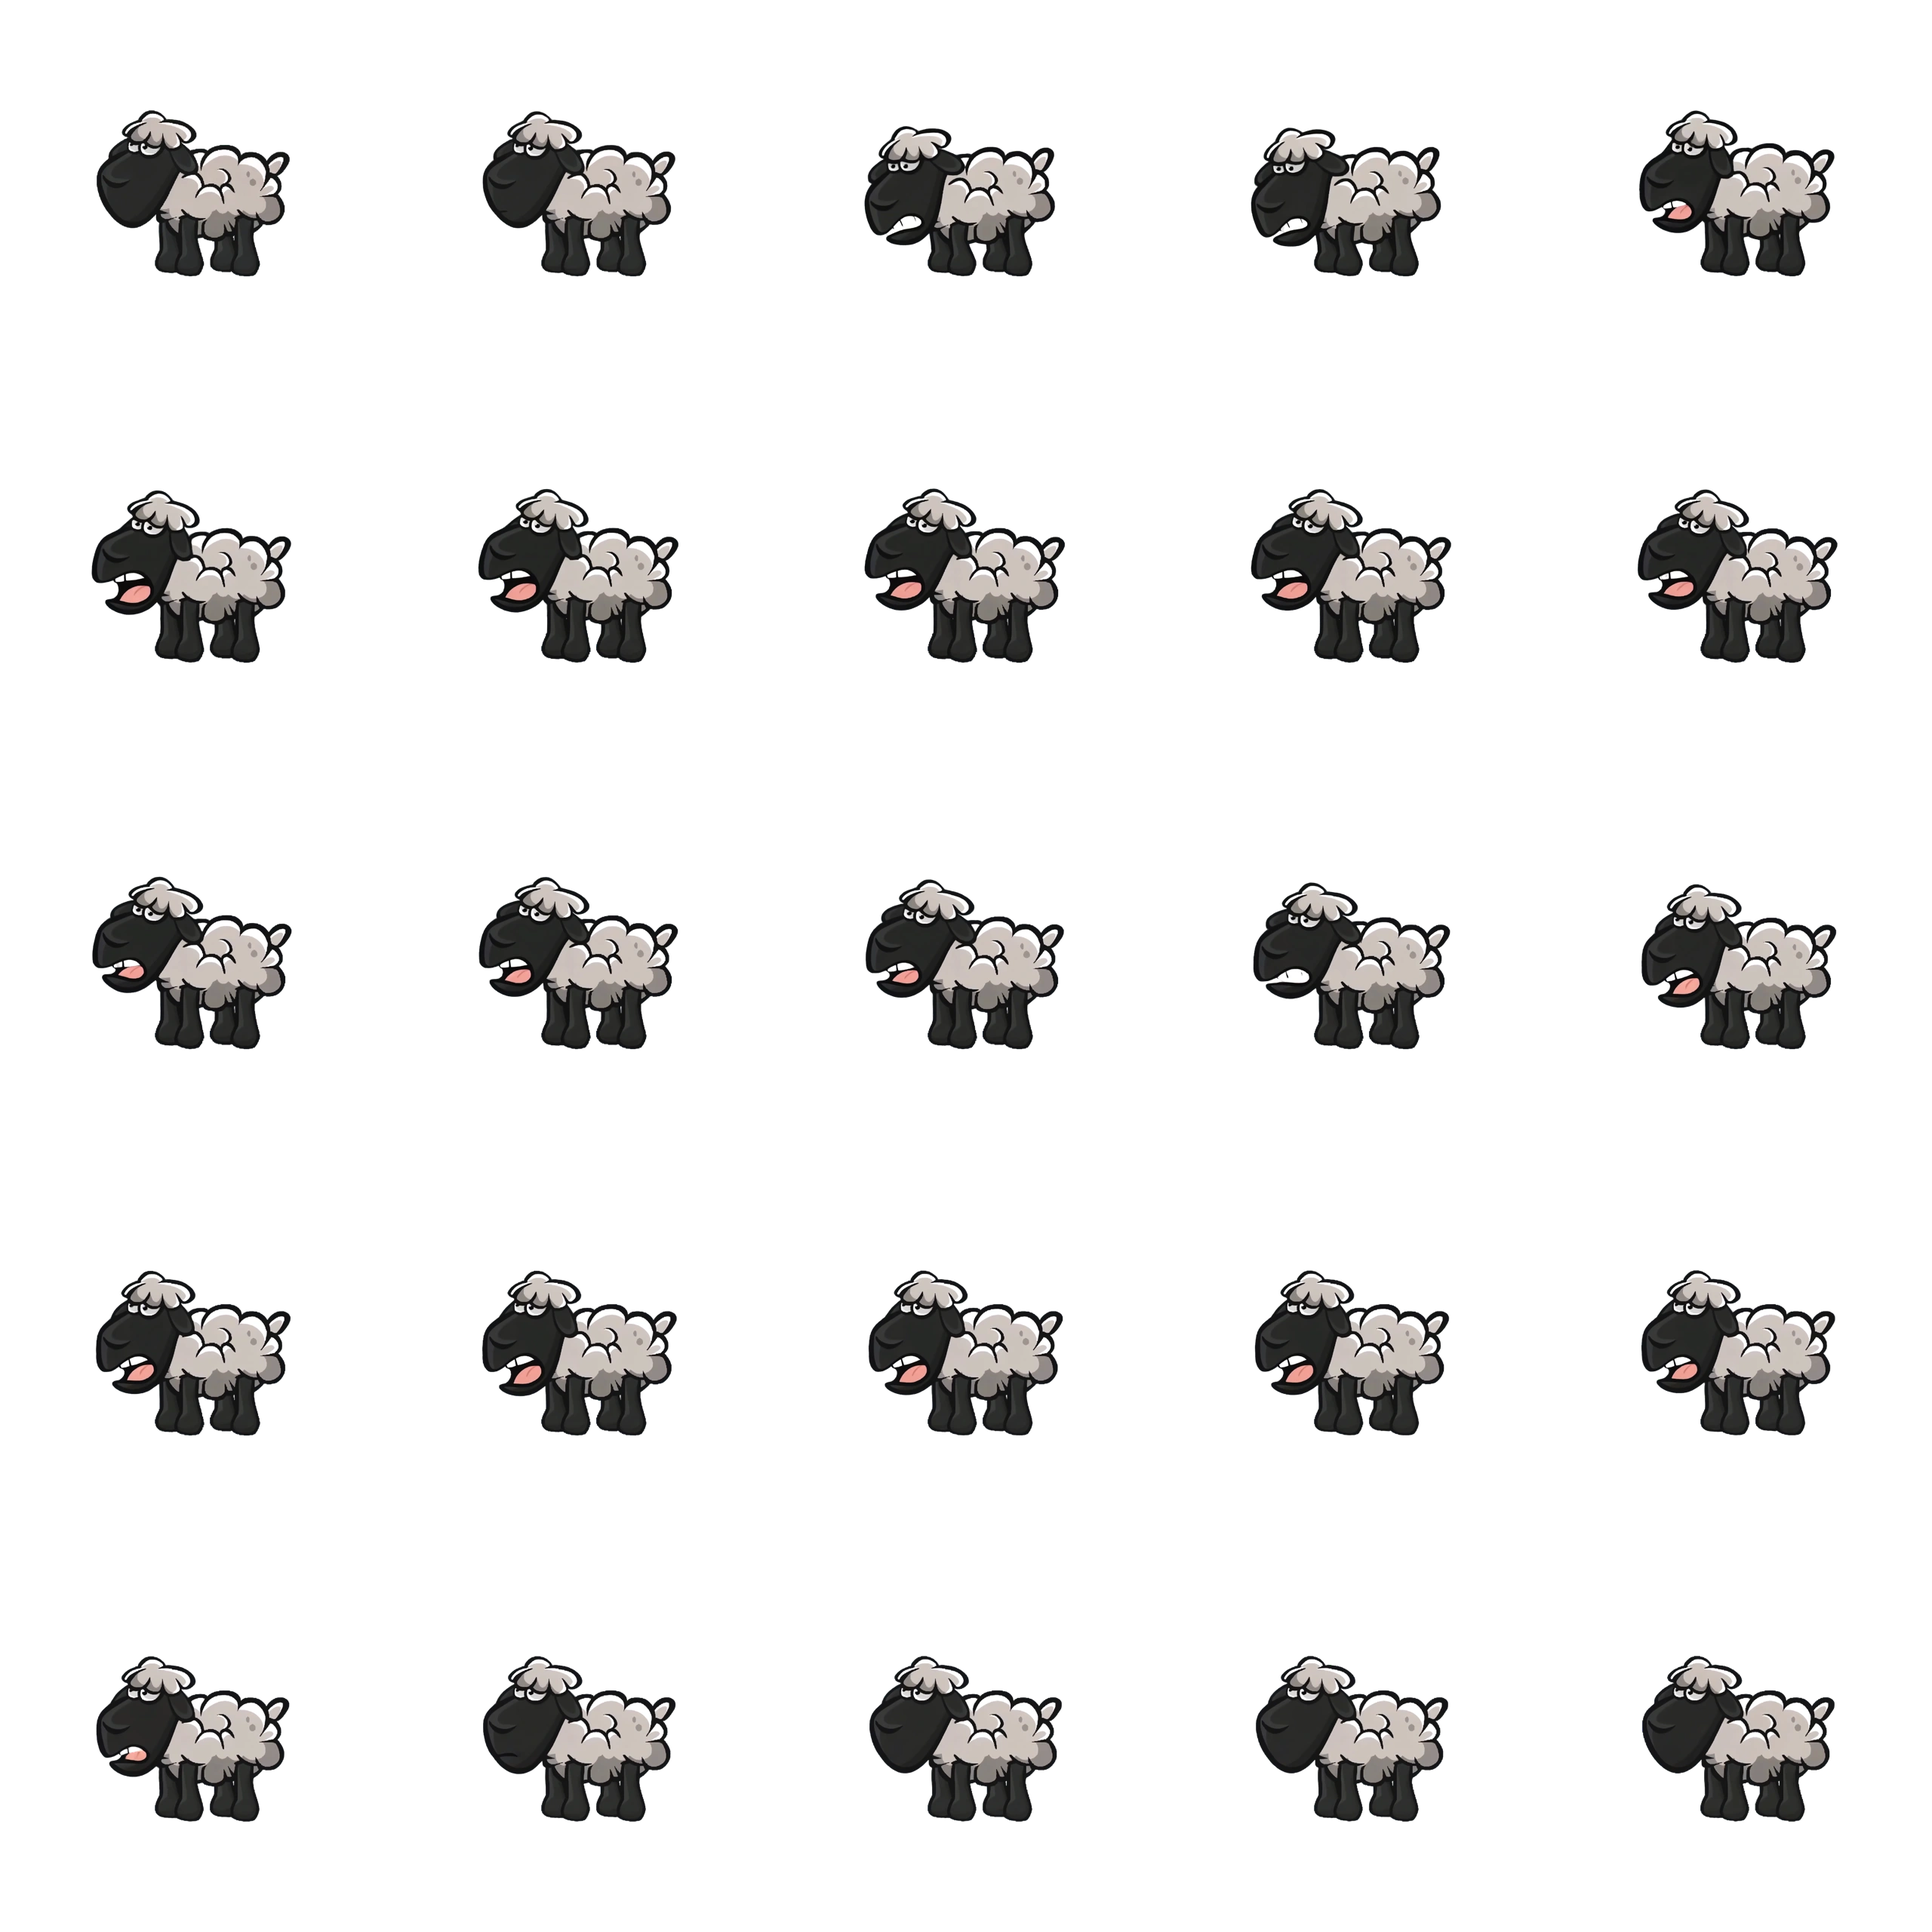
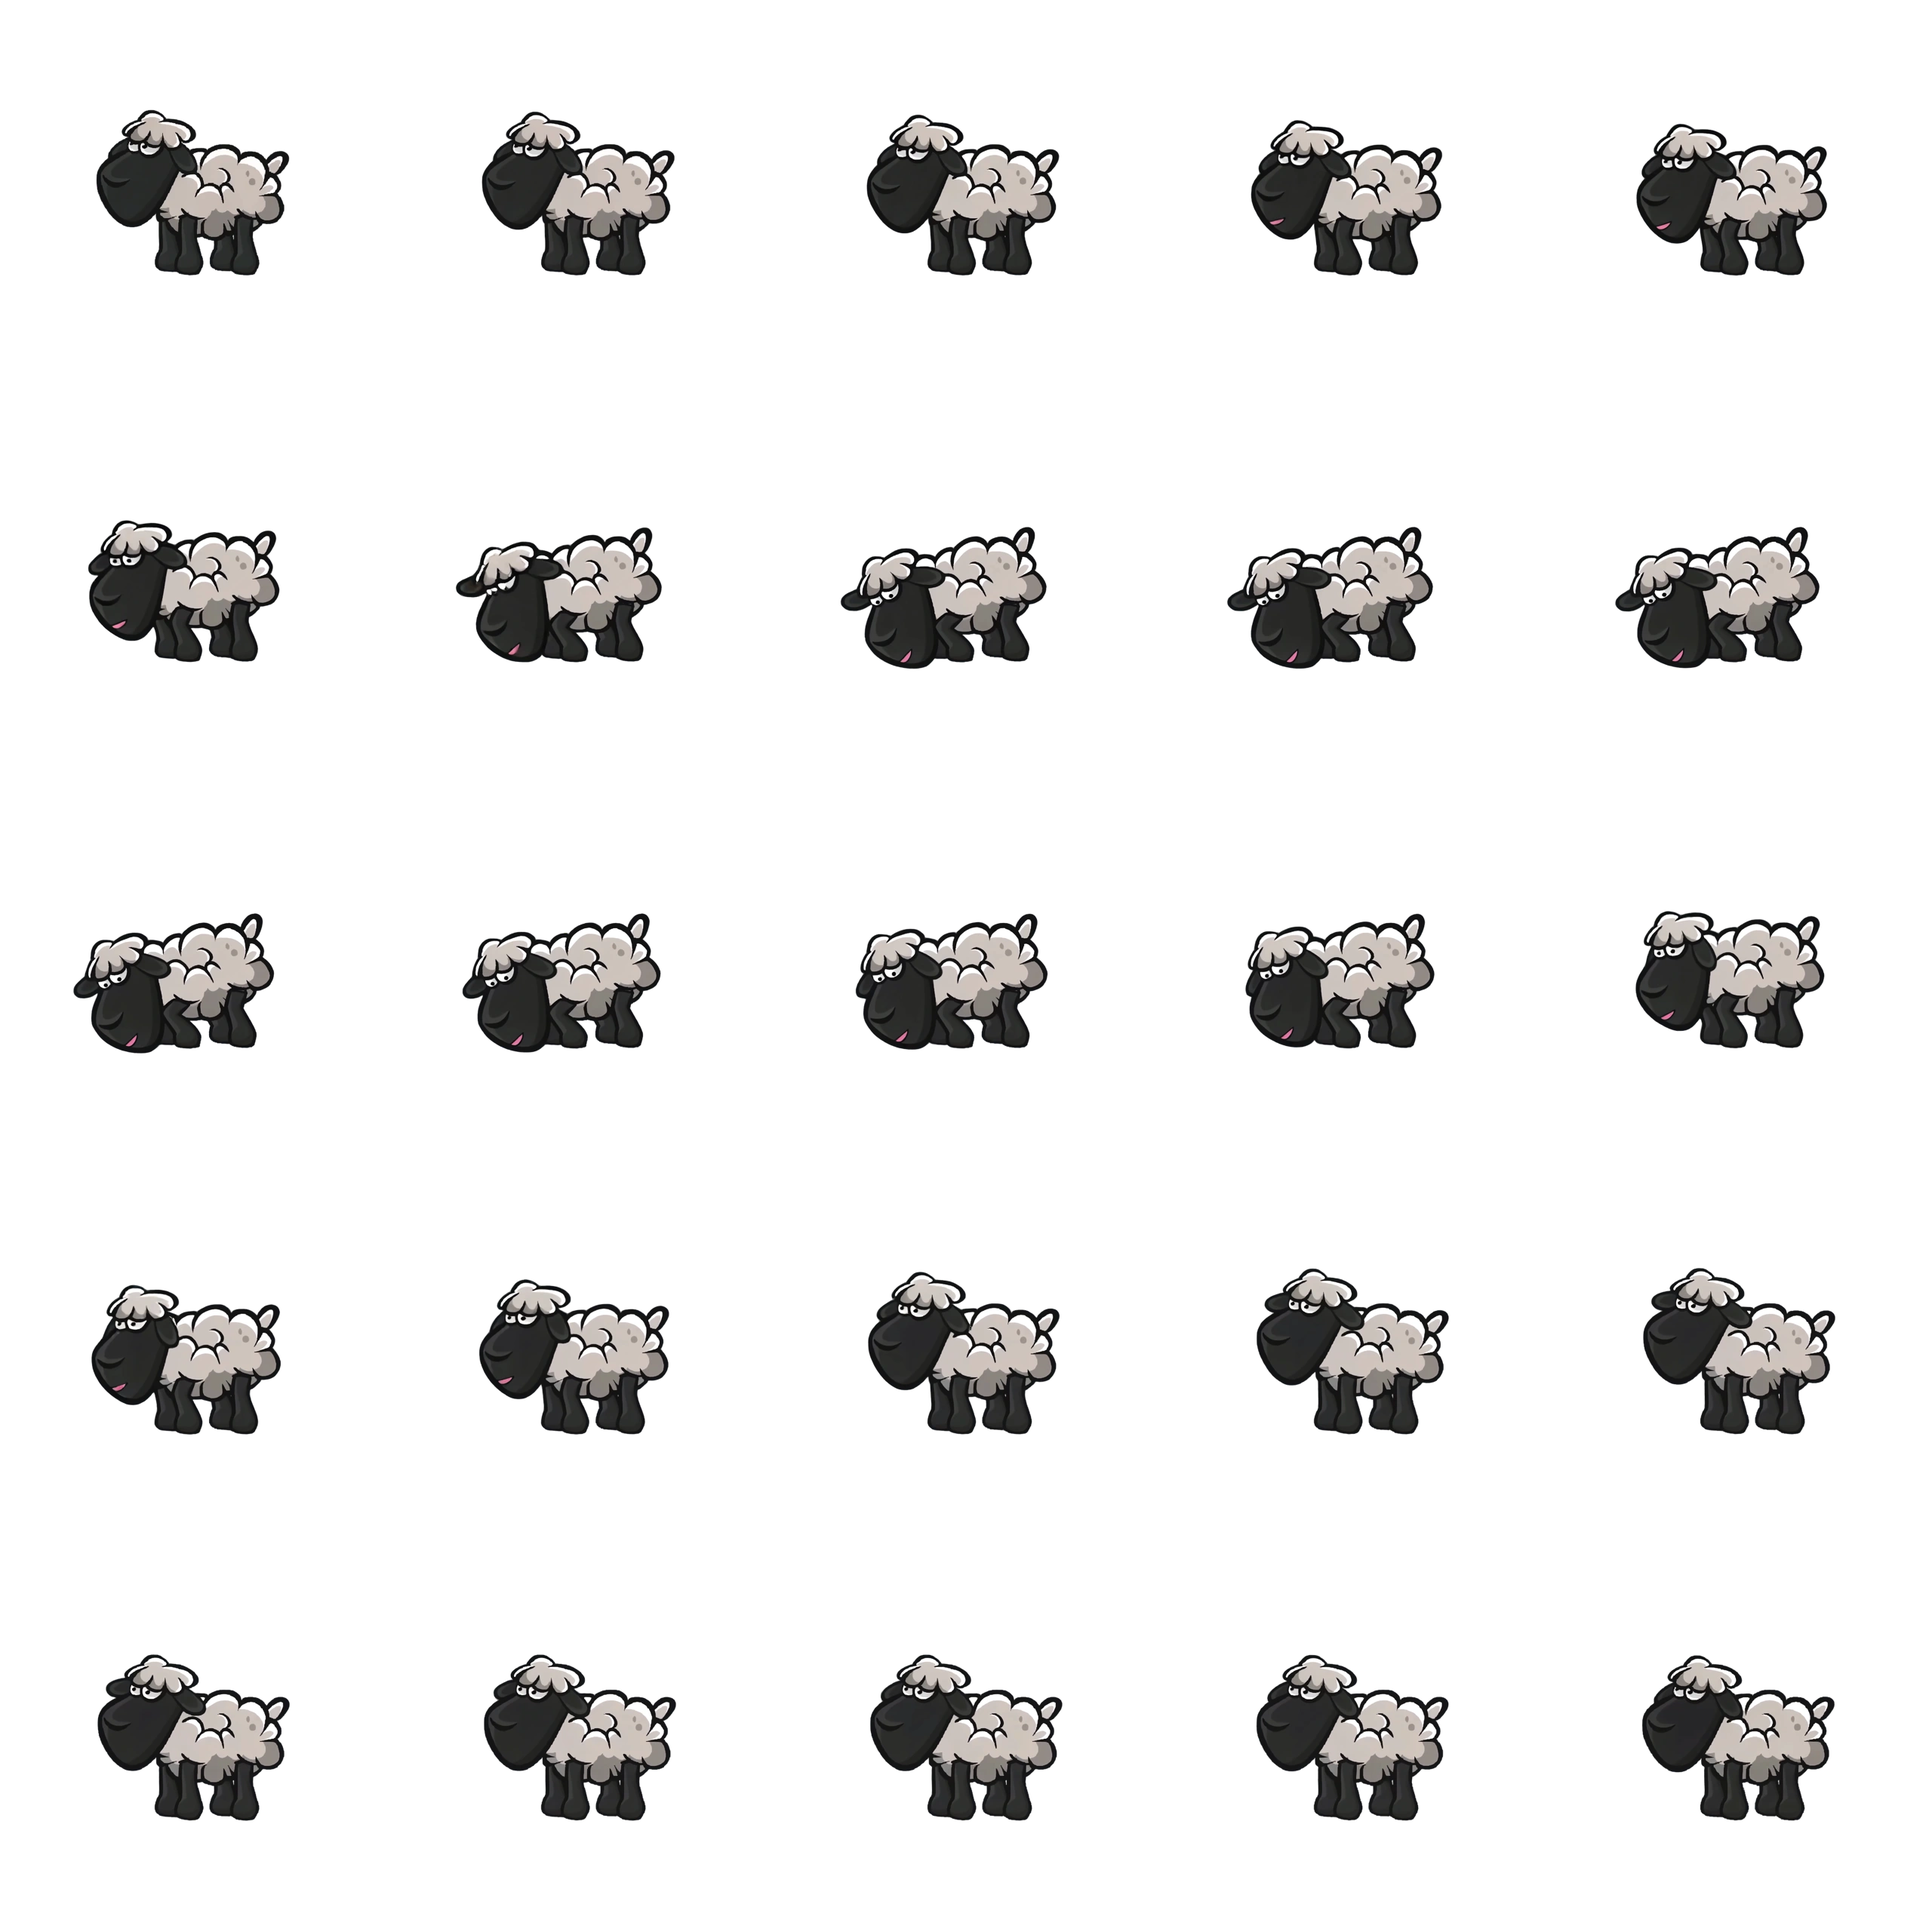
fix(animals): stop Hetty's angry clip flashing invented teeth
Reported as something weird and flashy with the sheep's teeth. Confirmed by
cropping the head from ten frames and scaling it up: the mouth interior was being
redrawn every frame — a white wedge, then a split blocky shape, then a
tooth-and-tongue, each a different size — on an animal whose source art has no
teeth at all. Invisible in the full spritesheet, obvious at 4x.

Fixed by describing what the open mouth shows rather than forbidding teeth: "one
clean smooth rounded patch of flat pink inside a plain dark muzzle, drawn
identically in every frame it appears". Same shape of fix as the owl's wings — the
positive description carries it, since "no teeth" alone is a negation and would
have been ignored.

The mouth is quieter than before as a result, so the clip now reads as a head-down
challenge rather than a loud bleat. That is the trade the fix costs: stable art for
some expressiveness. Everything else holds — head still never drops to graze, loop
seam 0.29%, and drift rose to ±15px with the forward head thrust but stays inside
the threshold.

`talking` was checked the same way and is fine: a consistent smooth pink curve
throughout, so it was left alone rather than regenerated.

Generalised as rule 7 in the skill, since every remaining animal opens its mouth.

diff --git a/src/phaser/animals/emotionSheets.generated.ts b/src/phaser/animals/emotionSheets.generated.ts
@@ -182,9 +182,9 @@ export const EMOTION_SHEETS: Partial<
       frameHeight: 512,
       frameCount: 25,
       frameRate: 13,
-      scale: 1.1422,
-      originX: 0.4842,
-      originY: 0.8126,
+      scale: 1.1472,
+      originX: 0.4491,
+      originY: 0.8278,
     },
     doubtful: {
       file: 'white-sheep-1-doubtful.png',

diff --git a/.claude/skills/animal-emotion-sprites/SKILL.md b/.claude/skills/animal-emotion-sprites/SKILL.md
@@ -150,6 +150,20 @@ here because ignoring them costs credits.
    stay exactly as in the reference image and do not move at all — ONLY THE FACE MOVES". Name
    what holds, not what must not happen.
 
+7. **Pin the inside of an open mouth, or it will flicker.** The generator invents mouth
+   interiors frame by frame and does not keep them consistent: the sheep's `angry` grew a
+   white wedge, then a split blocky shape, then a tooth-and-tongue, all different sizes, on an
+   animal whose source art has no teeth at all. It reads as flashing. Anything that opens its
+   mouth is exposed to this, so say what the open mouth *shows*: "one clean smooth rounded
+   patch of flat pink inside a plain dark muzzle, drawn identically in every frame it appears".
+   The positive description is what fixes it; "no teeth" on its own is a negation (rule 6) and
+   will be ignored. Expect a quieter mouth as the price — the fix trades some expressiveness
+   for stable art.
+
+   Zoom in before judging: crop the head from a handful of frames, scale it up and lay them
+   side by side. Per-frame detail defects are invisible in a full spritesheet and obvious at
+   4x.
+
 **`angry` is the hardest emotion — but only when the animal has no carrier for it.** It came out
 weak first-try on the donkey and took five attempts on the owl. The fox nailed it first try,
 because ears-pinned-back plus a snarl is an unambiguous canid anger signal that survives the
